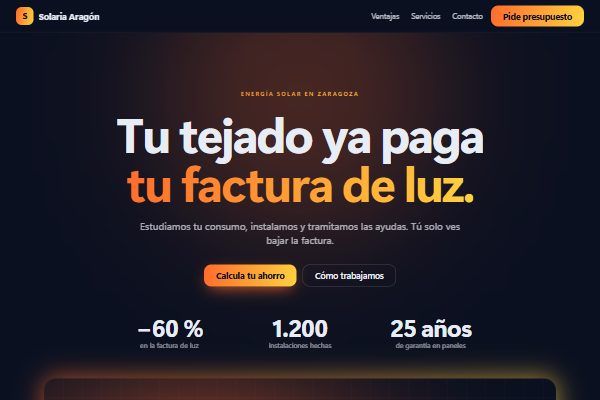
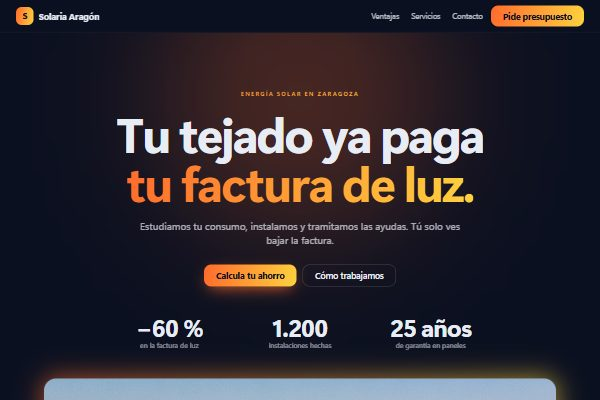
Fotos generadas con IA y previews nuevas (v1.1.0)

Changed region(s): [[0.06, 0.93, 0.93, 1.0]]

diff --git a/CLAUDE.md b/CLAUDE.md
@@ -40,3 +40,5 @@ Antes de dar una orden por buena: `npm run build` sin errores.
 - `hero.titulo_destacado`: final del titular en degradado. `hero.items`: cifras (`titulo` = cifra).
 - `ventajas.items`: la primera tarjeta sale grande.
 - Menú con anclas `/#id-de-sección`; es una landing de una sola página.
+
+Fotos de partida en public/fotos/ (generadas con IA, sin derechos de terceros); los SVG de public/placeholders/ siguen de respaldo.
